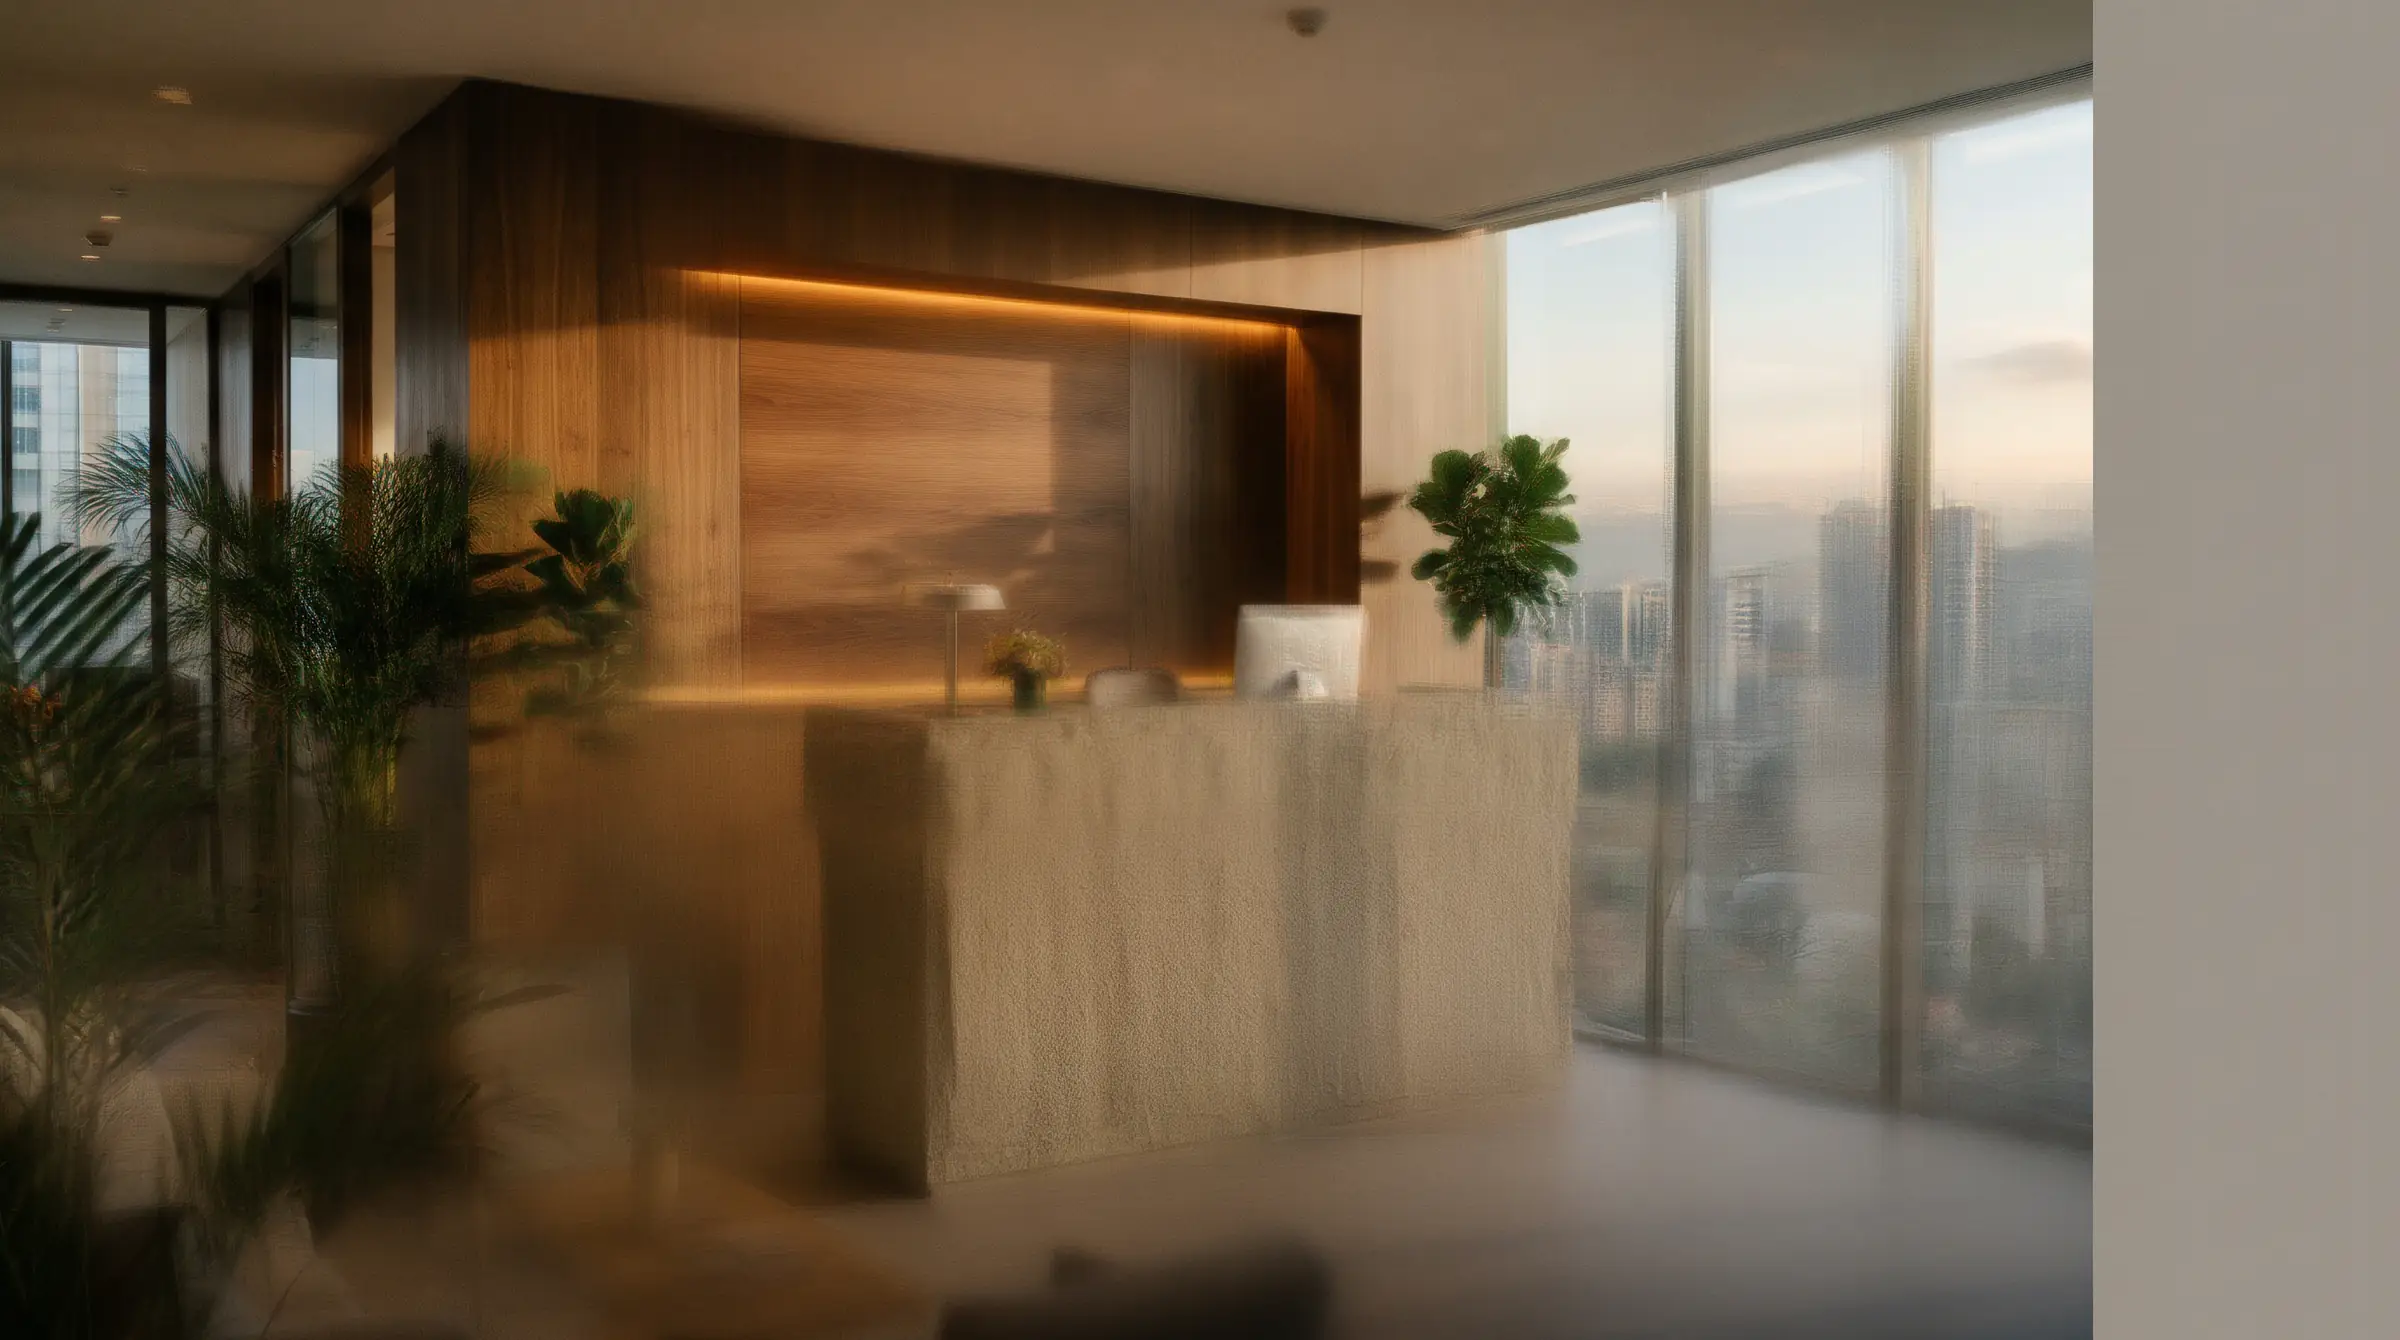
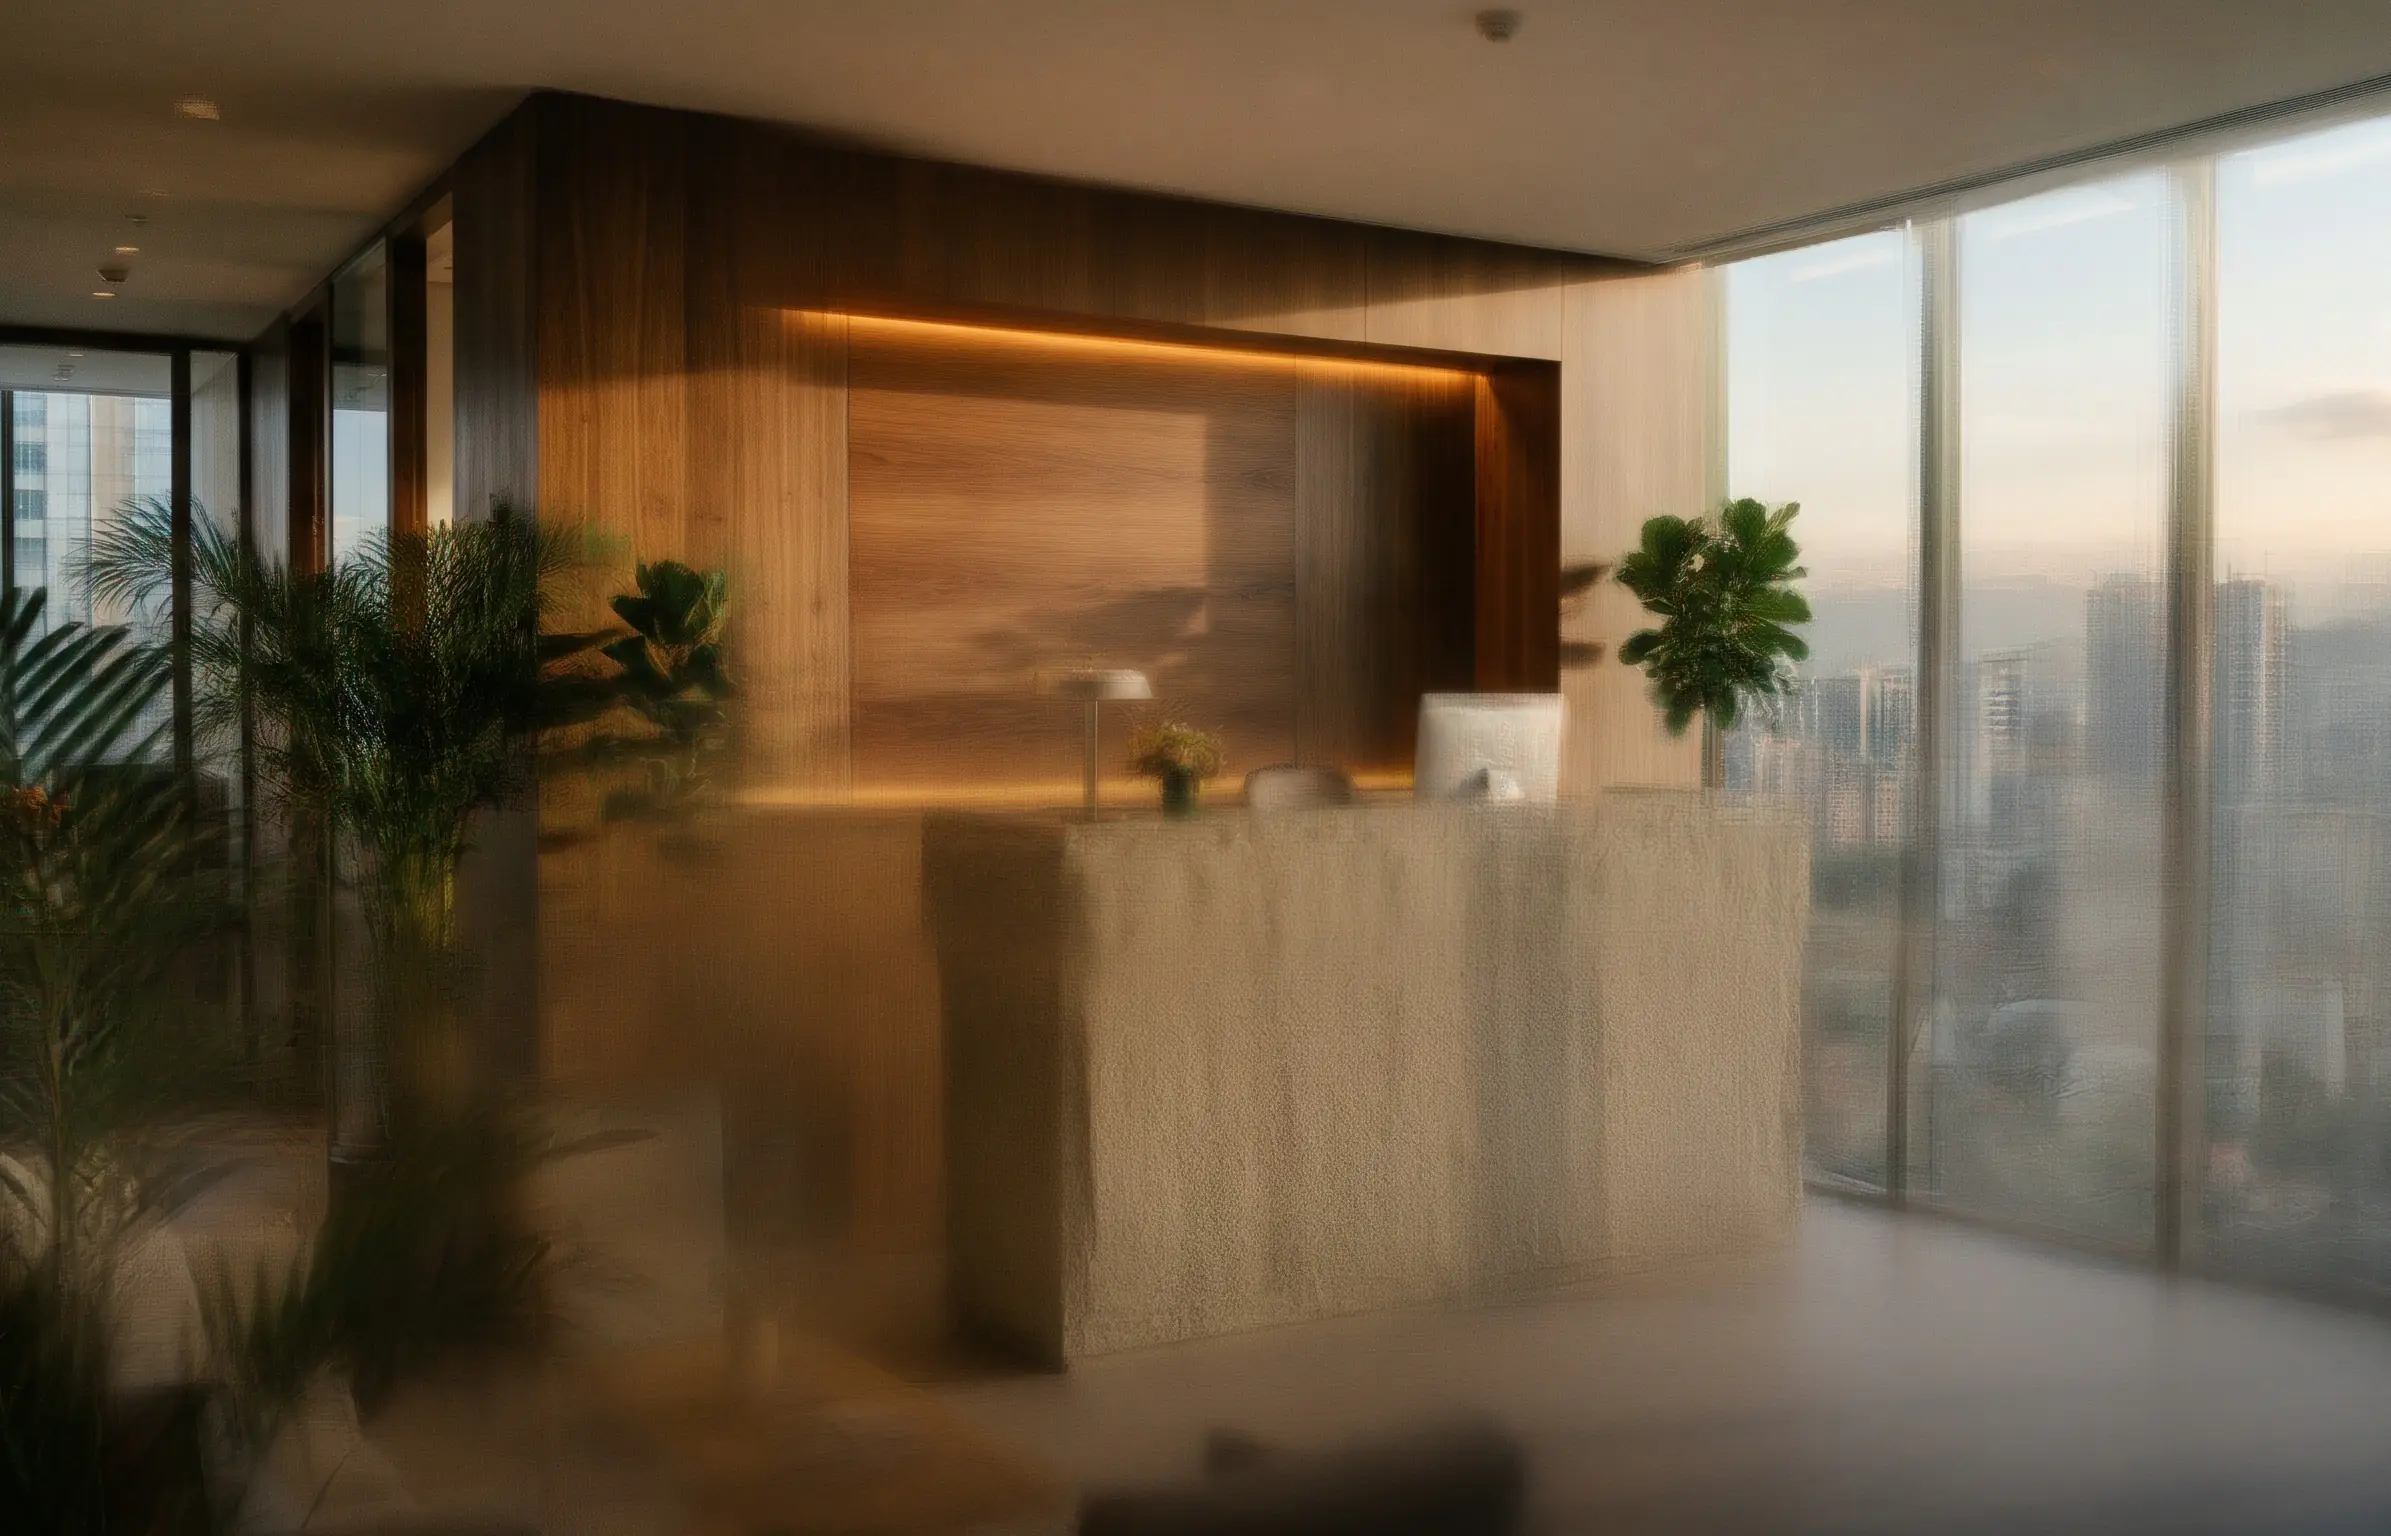
Use the sharp coffee-export photo for the coffee card; crop grey bands
- The homepage and business-lines coffee card used division-coffee, which is
  blurry and had a grey band baked into its bottom edge; use coffee-export.
- Crop baked-in grey strips from contact-hero (right) and division-minerals
  and division-coffee (bottom).

diff --git a/src/content/divisions.ts b/src/content/divisions.ts
@@ -19,7 +19,7 @@ export function divisionPath(slug: DivisionSlug) {
 }
 
 export const divisionImages: Record<DivisionSlug, { hero: ImageKey; detail: ImageKey }> = {
-  coffee: { hero: "division-coffee", detail: "coffee-drying-beds" },
+  coffee: { hero: "coffee-export", detail: "coffee-drying-beds" },
   minerals: { hero: "division-minerals", detail: "minerals-detail" },
   "animal-health": { hero: "division-animal-health", detail: "animal-health-detail" },
   electrical: { hero: "division-electrical", detail: "electrical-detail" },
